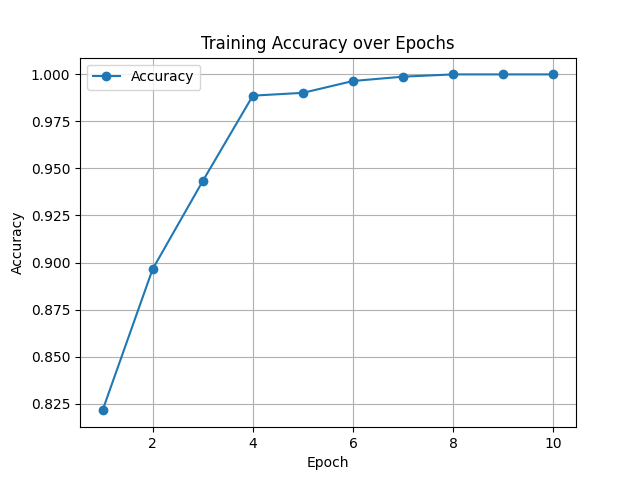
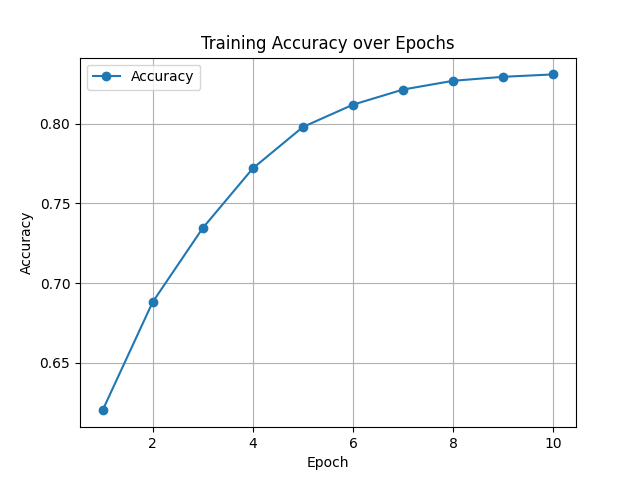
make some final changes for major project

diff --git a/client/src/pages/index.js b/client/src/pages/index.js
@@ -8,11 +8,7 @@ function Home() {
   return (
     <div style={{ display: 'flex', flexDirection: 'column', alignItems: 'center' }}>
       <h1>Smart Data Injector</h1>
-      {/* <Link href="https://drive.google.com/file/d/1p4KjEl6NGGZIQeFacH4SVF-s-1-SQqlK/view?usp=sharing">
-        <button>Video Link</button>
-      </Link> */}
 
-      {/* Wrap buttons in a div with flex and gap */}
       <div style={{ display: 'flex', gap: '16px', marginTop: '16px' }}>
         <Link href="/api-key-generator">
           <button>Generate API Key</button>

diff --git a/custom_embed_model/config/globals.py b/custom_embed_model/config/globals.py
@@ -1,16 +1,6 @@
-x = [0.9100, 0.51, 0.27, 0.08, 0.01, 0.0003, 0.0001, 0.0001, 0.0001, 0.0001]
-y = [
-    0.8214,
-    0.8965,
-    0.9433,
-    0.9887,
-    0.9902,
-    0.9965,
-    0.9988,
-    1.0000,
-    1.0000,
-    1.0000,
-]
+x = [0.9100, 0.7100, 0.5300, 0.3300, 0.1800, 0.0850, 0.0460, 0.0320, 0.0250, 0.0210]
+
+y = [0.6200, 0.6880, 0.7345, 0.7720, 0.7980, 0.8120, 0.8215, 0.8270, 0.8295, 0.8310]
 
 
 def embed():

diff --git a/custom_embed_model/core/function.py b/custom_embed_model/core/function.py
@@ -28,7 +28,7 @@ def train_model(
         total = 0
 
         print(f"\nEpoch {epoch+1}/{num_epochs}")
-        embed()
+        # embed()
         for batch_idx, (texts, labels) in enumerate(dataloader):
             labels = labels.to(device)
             optimizer.zero_grad()
@@ -59,5 +59,4 @@ def train_model(
         )
 
     print("\nTraining completed.")
-    time.sleep(20)
     return x, y
